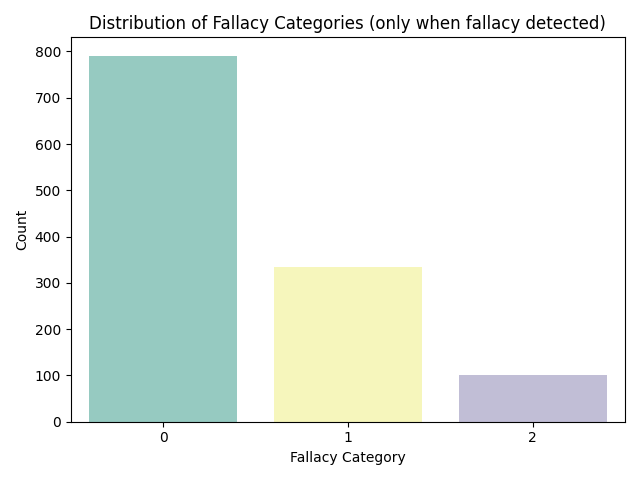
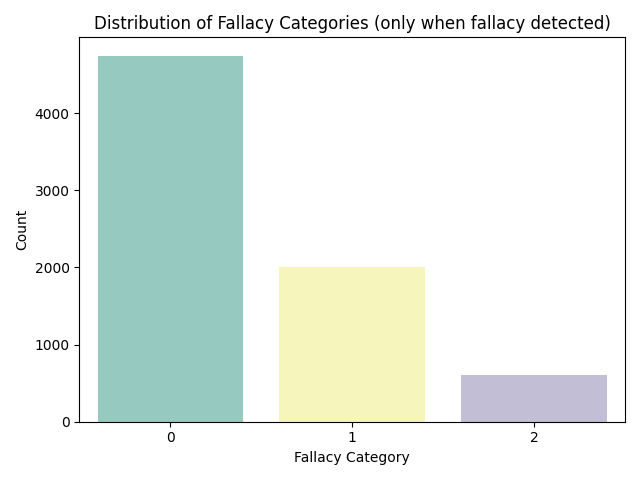
now u can plot the augmented ones

diff --git a/data/MM_USED_fallacy/data_analysis.py b/data/MM_USED_fallacy/data_analysis.py
@@ -6,59 +6,62 @@ import os
 SAVE_DIR = os.path.abspath(os.path.join(os.path.dirname(__file__), '../../Saved_Plots'))
 os.makedirs(SAVE_DIR, exist_ok=True)
 
-
-def plot_fallacy_detection_distribution(df):
+def plot_fallacy_detection_distribution(df, augmented=False):
+    suffix = "- augmented" if augmented else ""
+    
     sns.countplot(x='fallacy_detection', hue='fallacy_detection', data=df, palette='Set3', legend=False)
-    plt.title('Distribution of Fallacy Detection')
+    plt.title(f'Distribution of Fallacy Detection{suffix}')
     plt.xlabel('Fallacy Detected (1=True, 0=False)')
     plt.ylabel('Count')
     plt.tight_layout()
-    plt.savefig(os.path.join(SAVE_DIR, 'fallacy_detection_distribution.png'))
+    plt.savefig(os.path.join(SAVE_DIR, f'fallacy_detection_distribution{suffix}.png'))
     plt.clf()
 
+def plot_category_distribution(df, augmented=False):
+    suffix = "- augmented" if augmented else ""
 
-def plot_category_distribution(df):
     filtered_df = df[df['fallacy_detection'] == 1]
     sns.countplot(x='category', hue='category', data=filtered_df, palette='Set3', legend=False)
-    plt.title('Distribution of Fallacy Categories (only when fallacy detected)')
+    plt.title(f'Distribution of Fallacy Categories (only when fallacy detected){suffix}')
     plt.xlabel('Fallacy Category')
     plt.ylabel('Count')
     plt.tight_layout()
-    plt.savefig(os.path.join(SAVE_DIR, 'category_distribution.png'))
+    plt.savefig(os.path.join(SAVE_DIR, f'category_distribution{suffix}.png'))
     plt.clf()
 
+def plot_class_distribution(df, augmented=False):
+    suffix = "- augmented" if augmented else ""
 
-def plot_class_distribution(df):
     filtered_df = df[df['fallacy_detection'] == 1]
     sns.countplot(x='class', hue='class', data=filtered_df, palette='Set3', legend=False)
-    plt.title('Distribution of Fallacy Classes (only when fallacy detected)')
+    plt.title(f'Distribution of Fallacy Classes (only when fallacy detected){suffix}')
     plt.xlabel('Fallacy Class')
     plt.ylabel('Count')
     plt.tight_layout()
-    plt.savefig(os.path.join(SAVE_DIR, 'class_distribution.png'))
+    plt.savefig(os.path.join(SAVE_DIR, f'class_distribution{suffix}.png'))
     plt.clf()
-
 
 def print_distribution(df, column_name, only_where_fallacy=True):
     if only_where_fallacy:
-        filtered_df = df[df['fallacy_detection'] == 1]
+        df = df[df['fallacy_detection'] == 1]
 
-    counts = filtered_df[column_name].value_counts(normalize=True) * 100
+    counts = df[column_name].value_counts(normalize=True) * 100
     print(f"\nDistribution for '{column_name}' (fallacy_detection == 1):")
     print(counts.round(2).astype(str) + " %")
 
-
 def main():
-    df = pd.read_csv('full_data_processed.csv')
+    df = pd.read_csv('full_data_preprocessed.csv')
 
-    plot_fallacy_detection_distribution(df)
-    plot_category_distribution(df)
-    plot_class_distribution(df)
+    # Set this to True or False depending on the data you're using
+    is_augmented = False
+
+    plot_fallacy_detection_distribution(df, augmented=is_augmented)
+    plot_category_distribution(df, augmented=is_augmented)
+    plot_class_distribution(df, augmented=is_augmented)
 
     print_distribution(df, 'fallacy_detection', only_where_fallacy=False)
     print_distribution(df, 'category', only_where_fallacy=True)
     print_distribution(df, 'class', only_where_fallacy=True)
-
 
 if __name__ == '__main__':
     main()
